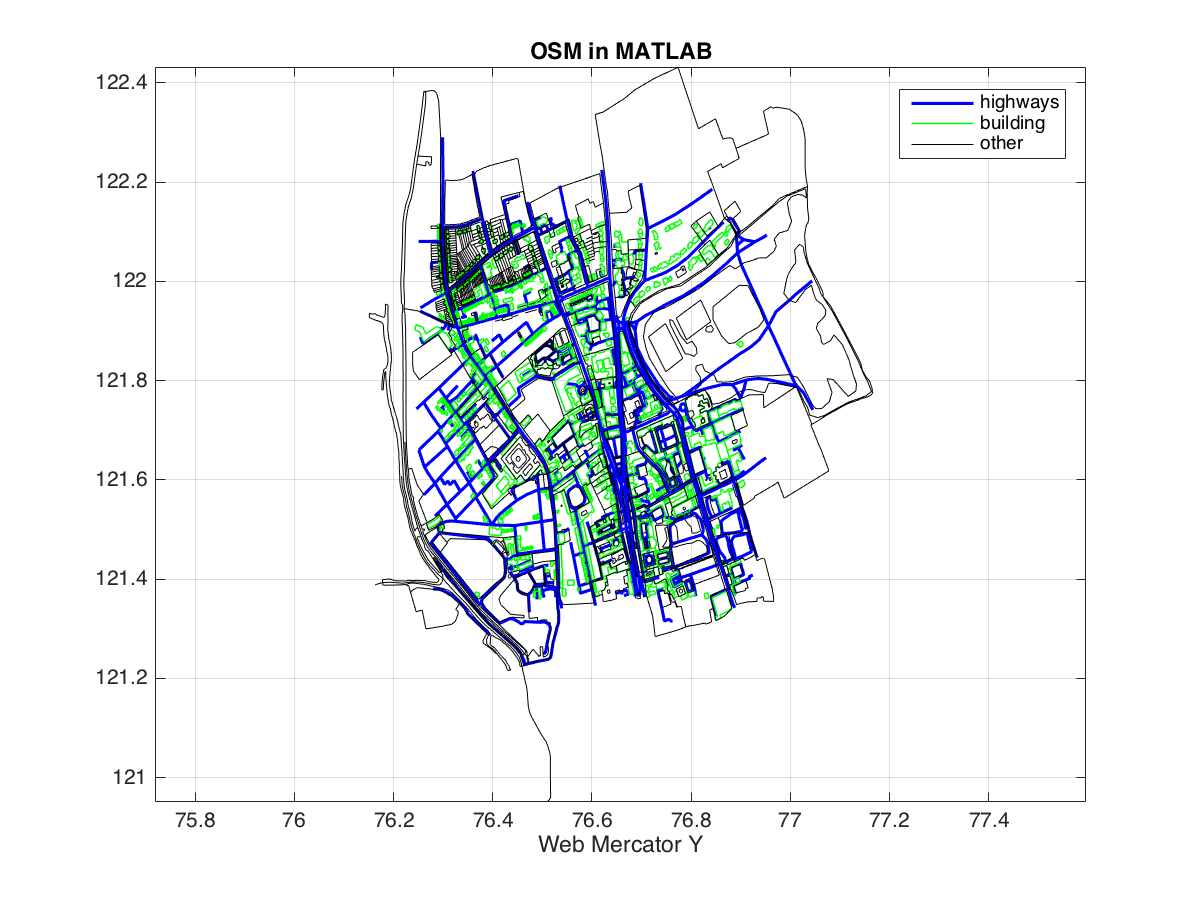
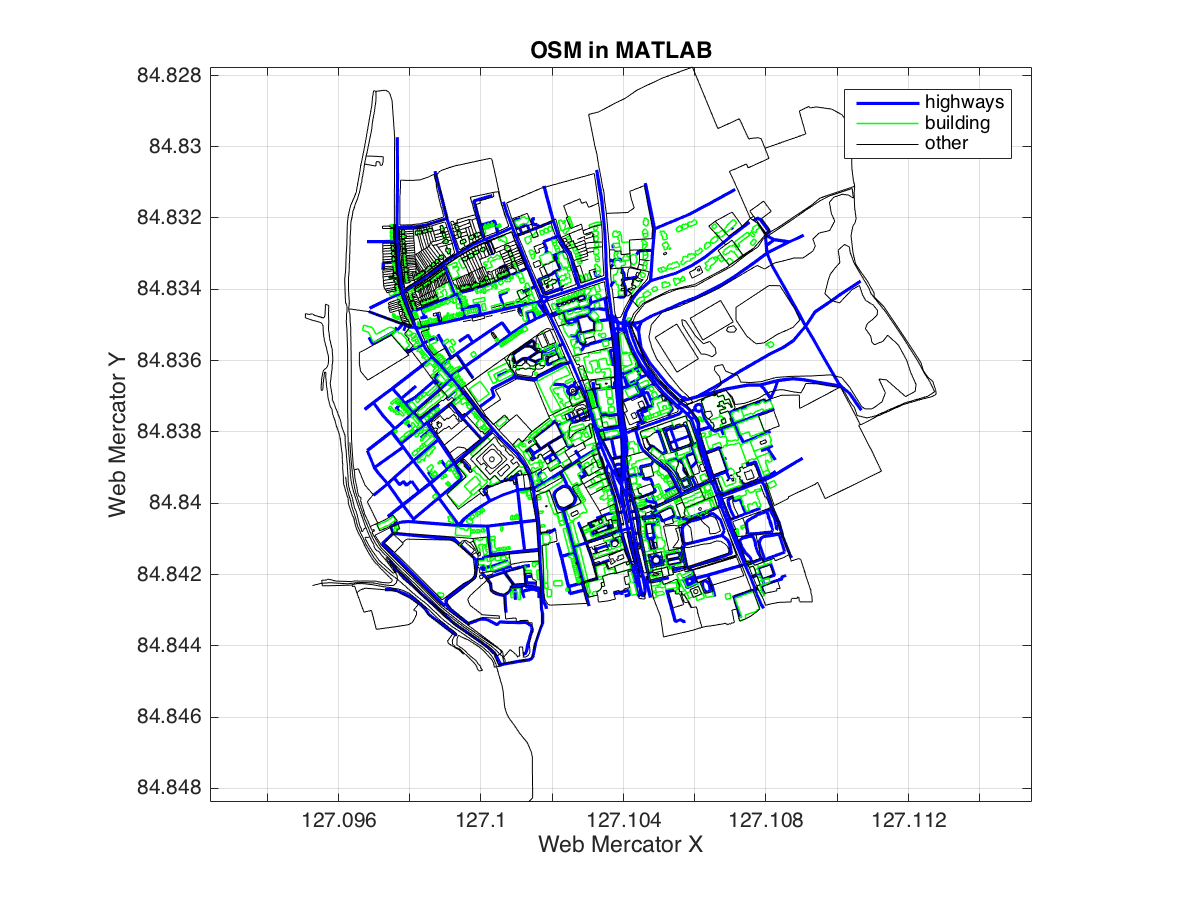
fixes

diff --git a/geo2xy.m b/geo2xy.m
@@ -1,11 +1,14 @@
-function xy = geo2xy(geo, center)
-%GEO2XY  Convert (LAT,LON) pairs in XY pairs using the Web Mercator projection
+function xy = geo2xy(geo)
+%GEO2XY Convert (LAT,LON) pairs into XY pairs using the Web Mercator projection
 %   XY = GEO2XY(GEO) takes a matrix of latitude GEO(1,:) and
-%   lognigutde GEO(2,:) values and returns the Web Mercatro projection
+%   longitude GEO(2,:) values and returns the Web Mercator projection
 %   XY (aka Google Maps). The world is mapped into the square [0,
-%   256]x[0,256].
+%   256]x[0,256], provided that latitude is cut off at 85.051129
+%   degrees.
 %
-%   XY = GEO2XY(GEO, TRUE) centers the projection on the geographical
-%   center of the coordinates.
+%   GEO is supposed to be in degrees (not radians). Note that the Y
+%   coordinate grows from north to south; this is to make XY match
+%   pixel coordinates (0,0) is the up-left corner of the image.
 
-xy = 128/pi * [geo(2,:) + pi; pi - log(tan(pi/4 + geo(1,:)))] ;
+geo = (pi/180) * geo ;
+xy = (128/pi) * [pi + geo(2,:);  pi - log(tan(pi/4 + geo(1,:)/2))] ;

diff --git a/demo.m b/demo.m
@@ -11,7 +11,8 @@ lines=geo2xy(osmgetlines(map, hw)) ; plot(lines(1,:), lines(2,:), 'b-', 'linewid
 lines=geo2xy(osmgetlines(map, bl)) ; plot(lines(1,:), lines(2,:), 'g-', 'linewidth', 0.75) ;
 lines=geo2xy(osmgetlines(map, ot)) ; plot(lines(1,:), lines(2,:), 'k-', 'linewidth', 0.5) ;
 
+set(gca,'ydir','reverse') ;
 xlabel('Web Mercator X') ;
-xlabel('Web Mercator Y') ;
+ylabel('Web Mercator Y') ;
 legend('highways', 'building', 'other') ; title('OSM in MATLAB') ;
 axis equal ; box on ;

diff --git a/README.md b/README.md
@@ -22,12 +22,13 @@ hw = find([map.ways.isHighway]) ;
 bl = find([map.ways.isBuilding]) ;
 ot = setdiff(1:numel(map.ways), [hw, bl]) ;
 
-lines=osmgetlines(map, hw) ; plot(lines(2,:), lines(1,:), 'b-', 'linewidth', 1.5) ;
-lines=osmgetlines(map, bl) ; plot(lines(2,:), lines(1,:), 'g-', 'linewidth', 0.75) ;
-lines=osmgetlines(map, ot) ; plot(lines(2,:), lines(1,:), 'k-', 'linewidth', 0.5) ;
+lines=geo2xy(osmgetlines(map, hw)) ; plot(lines(1,:), lines(2,:), 'b-', 'linewidth', 1.5) ;
+lines=geo2xy(osmgetlines(map, bl)) ; plot(lines(1,:), lines(2,:), 'g-', 'linewidth', 0.75) ;
+lines=geo2xy(osmgetlines(map, ot)) ; plot(lines(1,:), lines(2,:), 'k-', 'linewidth', 0.5) ;
 
-xlabel('longitude') ;
-xlabel('latitude') ;
+set(gca,'ydir','reverse') ;
+xlabel('Web Mercator X') ;
+ylabel('Web Mercator Y') ;
 legend('highways', 'building', 'other') ; title('OSM in MATLAB') ;
 axis equal ; box on ;
 ```
